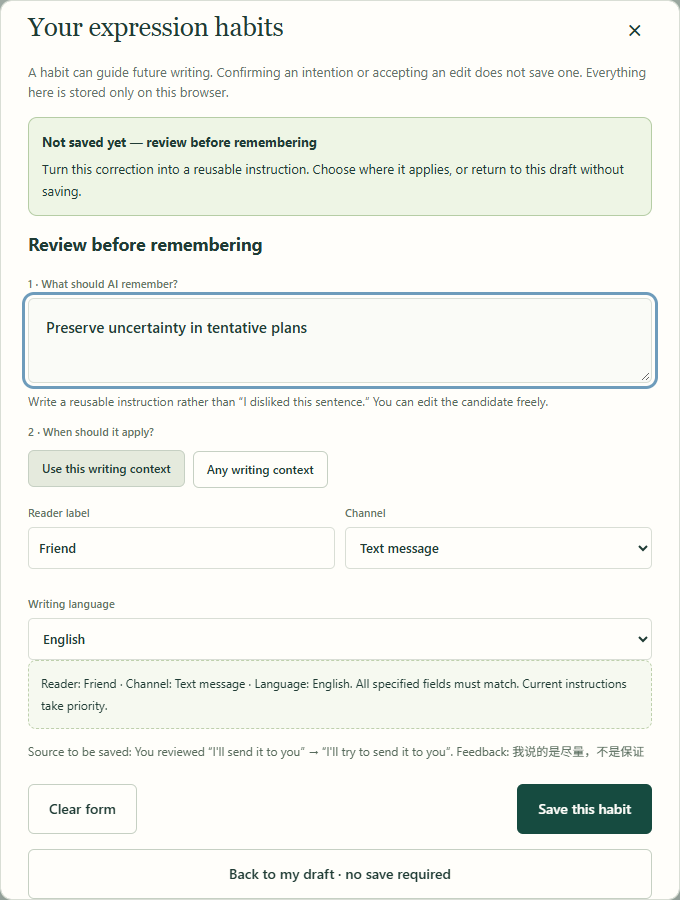
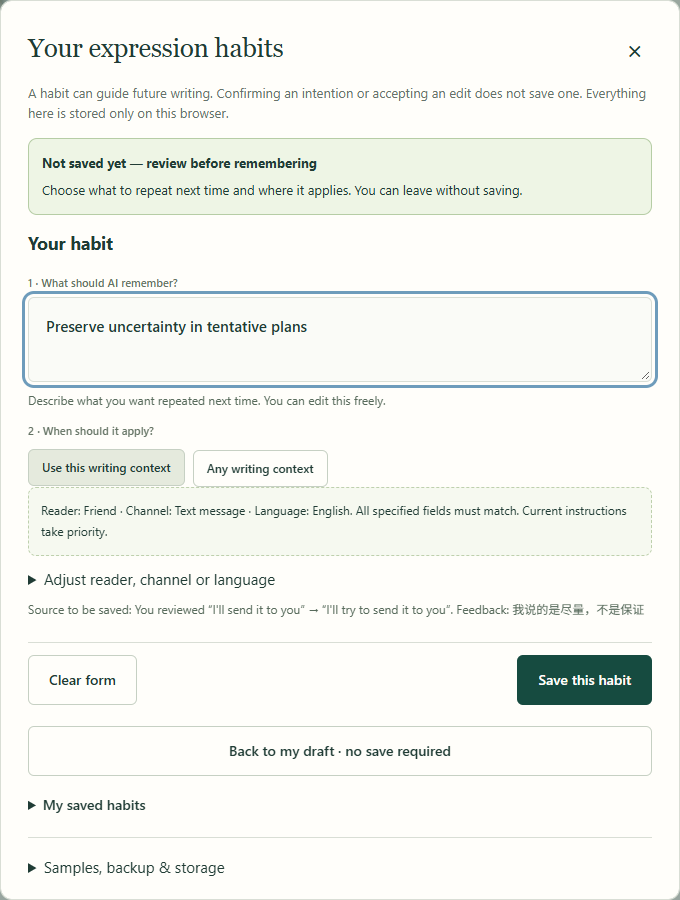
fix: smooth first-use writing and phone flows

diff --git a/writing-ui.js b/writing-ui.js
@@ -6,7 +6,7 @@ import { initMemories } from './memory-ui.js';
 import { initIntentPanel } from './intent-ui.js';
 import { addEvent, makeSnapshot, snapshotCurrent, checkReviewed } from './workflow-state.js';
 import { initWritingVoice } from './writing-voice.js';
-import { renderOptions, renderEvents } from './writing-panels.js';
+import { renderOptions, renderEvents, renderDecision } from './writing-panels.js';
 import { renderSelection } from './selection-ui.js';
 import { initFlowGuide } from './flow-ui.js';
 import { confirmedIntentions } from './intent-state.js';
@@ -30,7 +30,7 @@ export function initWriting({ getConnection, notify }) {
   for (const id of ['writing-target', 'back-language']) $(id).replaceChildren(...[...$('target').options].map(x => x.cloneNode(true)));
   $('back-language').value = 'Chinese (Simplified)';
   const voice = initWritingVoice(() => invalidate());
-  const memory = initMemories({ context, changed: () => invalidate(), event: log, notify, enabled: () => voice.get().enabled });
+  const memory = initMemories({ context, changed: () => invalidate(), event: log, notify, enabled: () => voice.get().enabled, returnToDraft: continueWriting });
   const intents = initIntentPanel({ changed: () => invalidate(), event: log, fail, remember: rememberCandidate, getRevision: () => session.revision });
   function inputData() {
     const habits = voice.get().enabled ? memory.matched() : [];
@@ -41,21 +41,29 @@ export function initWriting({ getConnection, notify }) {
       voiceSamples: voice.get().enabled && voice.get().sample ? [voice.get().sample] : [] };
   }
   function signature() {
-    return JSON.stringify({ context: contextIds.map(id => $(id).type === 'checkbox' ? $(id).checked : $(id).value), intentions: confirmedIntentions(intents.get()), habits: memory.matched(), voice: voice.get() });
+    return JSON.stringify({ mode: demo ? 'demo' : 'live', context: contextIds.map(id => $(id).type === 'checkbox' ? $(id).checked : $(id).value), intentions: confirmedIntentions(intents.get()), habits: memory.matched(), voice: voice.get() });
   }
   function snapshotInput() { return { text: session.text, revision: session.revision, backLanguage: $('back-language').value, signature: signature() }; }
   function refreshSnapshot() {
+    const limitedDemo = demo && sample?.id !== 'promise';
+    $('check-demo-hint').hidden = !demo;
+    $('check-demo-hint').textContent = limitedDemo ? 'This authored example shows a language view. Choose the “尽量” example for a guided repair, or use My own draft with your API key for other feedback.' : 'Authored example: try “Too much commitment” or explain that “尽量” is not a guarantee. Other feedback needs live mode.';
+    document.querySelectorAll('[data-mismatch]').forEach(node => { node.disabled = demo && (limitedDemo || !node.dataset.mismatch.includes('commitment')); });
+    $('check-output').hidden = !snapshot;
+    $('copy-checked-draft').hidden = !checkReviewed(snapshot, snapshotInput(), reviewedId);
     $('check-current-draft').textContent = session.text || 'Your current draft will appear here.';
-    if (!snapshot) { $('snapshot-status').textContent = 'First, create a view in a familiar language. Your draft will stay unchanged.'; $('snapshot-status').classList.remove('stale'); $('repair-writing').disabled = true; $('mark-check-reviewed').disabled = true; $('check-reviewed-status').textContent = ''; $('repair-help').textContent = 'Create a language check, then describe any mismatch. Nothing changes until you accept a fix.'; refreshFlow(); return; }
+    if (!snapshot) { $('back-translate').textContent = 'Create language check'; $('snapshot-status').textContent = 'First, create a view in a familiar language. Your draft will stay unchanged.'; $('snapshot-status').classList.remove('stale'); $('repair-writing').disabled = true; $('mark-check-reviewed').disabled = true; $('check-reviewed-status').textContent = ''; $('repair-help').textContent = 'Create a language check, then describe any mismatch. Nothing changes until you accept a fix.'; refreshFlow(); return; }
     const fresh = snapshotCurrent(snapshot, snapshotInput());
-    $('snapshot-status').textContent = fresh ? `Current check · revision ${snapshot.revision} · ${snapshot.language}` : `Earlier check · revision ${snapshot.revision}. Draft or context changed — check again before repairing.`;
-    $('snapshot-status').classList.toggle('stale', !fresh); $('repair-writing').disabled = !fresh || Boolean(controller) || !$('correction-note').value.trim();
+    $('back-translate').textContent = fresh ? 'Refresh language check' : 'Check updated draft';
+    $('snapshot-status').textContent = fresh ? `Current check · revision ${snapshot.revision} · ${snapshot.language} · ${snapshot.source || 'Language view'}` : `Earlier check · revision ${snapshot.revision}. Draft, context or mode changed — check again before repairing.`;
+    $('snapshot-status').classList.toggle('stale', !fresh); $('repair-writing').disabled = !fresh || Boolean(controller) || !$('correction-note').value.trim() || limitedDemo;
     $('mark-check-reviewed').disabled = !fresh || Boolean(controller);
     $('check-reviewed-status').textContent = checkReviewed(snapshot, snapshotInput(), reviewedId) ? 'Reviewed by you for this version. You can copy or keep editing.' : 'Not yet reviewed by you for the current wording and context.';
     $('repair-help').textContent = fresh ? 'Describe the mismatch to preview a local fix. You accept each edit; nothing is changed automatically.' : 'Create an updated check before requesting a repair. Your earlier notes are kept.';
     refreshFlow();
   }
   function refreshFlow() {
+    $('connection-hint').hidden = demo || Boolean(getConnection().apiKey);
     guide?.refresh({ text: session.text, goal: $('writing-intent').value, avoid: $('writing-avoid').value, intentions: intents.get(),
       habits: voice.get().enabled ? memory.matched() : [], hasSample: Boolean(voice.get().enabled && voice.get().sample),
       snapshot, fresh: snapshotCurrent(snapshot, snapshotInput()), reviewed: checkReviewed(snapshot, snapshotInput(), reviewedId),
@@ -66,6 +74,7 @@ export function initWriting({ getConnection, notify }) {
     cancel(); suggestions = []; preview = null; candidate = null; $('memory-nudge').hidden = true;
     $('reflection-result').replaceChildren(); $('writing-status').textContent = '';
     $('selection-feedback').textContent = '';
+    $('decision-result').hidden = true; $('decision-result').replaceChildren();
     $('habit-conflicts').replaceChildren();
     $('suggestion-summary').textContent = 'Ready when you are. Ask for fresh suggestions after a change.';
     fail(); renderSuggestions(); memory.refresh(); refreshSnapshot(); updateContext(); $('use-writing-habits').checked = voice.get().enabled; refreshFlow();
@@ -90,8 +99,10 @@ export function initWriting({ getConnection, notify }) {
     memory.refresh(); refreshSnapshot(); updateContext();
   }
   function rememberCandidate(data) { memory.open({ ...data, scope: data.scope || context() }); }
+  function openCheck() { showPanel('check'); $('back-translate').focus(); }
+  function continueWriting() { $('suggestions-panel').classList.remove('is-open'); $('writing-draft').focus(); }
   function renderSuggestions() {
-    renderOptions({ suggestions, intentions: intents.get(), apply, reject });
+    renderOptions({ suggestions, intentions: intents.get(), apply, reject, hasDraft: Boolean(session.text.trim()), check: openCheck });
   }
   function apply(item, replacement, reason) {
     try {
@@ -106,13 +117,17 @@ export function initWriting({ getConnection, notify }) {
         $('memory-nudge-text').textContent = content; $('memory-nudge').hidden = false;
       }
       refreshFlow();
-      $('writing-status').textContent = 'Only that passage changed. You can undo it or check the new wording.'; $('analyze-writing').focus();
+      $('writing-status').textContent = 'Only that passage changed. You can undo it or check the new wording.';
+      const habitToReview = candidate;
+      renderDecision({ title: 'Applied to your draft', detail: `Your wording is now: “${replacement}”. Check the updated meaning, or keep writing.`,
+        remember: habitToReview ? () => rememberCandidate(habitToReview) : null, check: openCheck, write: continueWriting }).focus();
     } catch (error) { fail(error.message); }
   }
   function reject(item, reason) {
     cancel(); session = recordFeedback(session, 'rejected', reason, item.original); suggestions = suggestions.filter(x => x !== item);
     log({ kind: 'rejected', before: item.original, proposed: item.replacement, note: reason }); updateSession(); renderSuggestions();
-    $('writing-status').textContent = 'Kept your wording. No lasting habit was inferred.'; $('analyze-writing').focus();
+    $('writing-status').textContent = 'Kept your wording. No lasting habit was inferred.';
+    renderDecision({ title: 'Kept your original wording', detail: 'Your draft did not change. No habit was saved from this choice.', check: openCheck, write: continueWriting }).focus();
   }
   async function run(action) {
     fail();
@@ -148,8 +163,8 @@ export function initWriting({ getConnection, notify }) {
         startingDraft(session, output.draft); preview = { text: output.draft, revision: session.revision, epoch, habits };
         $('starting-preview-text').textContent = output.draft; $('starting-preview').showModal();
       } else if (action === 'back') {
-        snapshot = makeSnapshot(binding, output.text); reviewedId = null; flagged = ''; $('flagged-text').textContent = '';
-        $('check-text').value = output.text; $('correction-note').value = ''; showPanel('check');
+        snapshot = { ...makeSnapshot(binding, output.text), source: demo ? 'Authored example' : 'Live AI' }; reviewedId = null; flagged = ''; $('flagged-text').textContent = '';
+        $('check-text').value = output.text; $('correction-note').value = ''; $('check-draft-comparison').open = true; showPanel('check');
         log({ kind: 'cross-language-check', note: `${snapshot.language} · snapshot ${snapshot.id}` });
       } else {
         $('reflection-result').replaceChildren(); showPanel('check');
@@ -189,13 +204,23 @@ export function initWriting({ getConnection, notify }) {
   $('use-writing-habits').checked = voice.get().enabled;
   $('use-writing-habits').addEventListener('change', () => voice.setEnabled($('use-writing-habits').checked));
   $('remember-correction').addEventListener('click', () => { if (candidate) rememberCandidate(candidate); });
-  $('dismiss-memory').addEventListener('click', () => { candidate = null; $('memory-nudge').hidden = true; refreshFlow(); });
-  $('open-check').addEventListener('click', () => { showPanel('check'); $('back-translate').focus(); });
+  $('dismiss-memory').addEventListener('click', () => {
+    candidate = null; $('memory-nudge').hidden = true; document.querySelector('#decision-result [data-remember-candidate]')?.remove(); refreshFlow();
+    ((!$('panel-suggestions').hidden && document.querySelector('#decision-result button')) || $('writing-draft')).focus();
+  });
+  $('open-check').addEventListener('click', openCheck);
+  $('connect-writing').addEventListener('click', () => $('open-settings').click());
+  $('first-example').addEventListener('click', () => $('writing-demo-mode').click());
+  $('back-from-intentions').addEventListener('click', () => { $('intent-panel').open = false; continueWriting(); $('writing-status').textContent = 'Your confirmed instructions will guide your next review. Your draft is unchanged.'; });
   $('mark-check-reviewed').addEventListener('click', () => {
     if (!snapshotCurrent(snapshot, snapshotInput())) return;
-    reviewedId = snapshot.id; log({ kind: 'meaning-reviewed', note: 'Writer marked the current check as matching their meaning; not a model accuracy claim.' }); refreshSnapshot();
+    const previousNote = $('correction-note').value.trim();
+    cancel(); reviewedId = snapshot.id; flagged = ''; $('check-text').setSelectionRange($('check-text').selectionEnd, $('check-text').selectionEnd); $('flagged-text').textContent = ''; $('correction-note').value = '';
+    suggestions = suggestions.filter(item => !item.correction); renderSuggestions();
+    log({ kind: 'meaning-reviewed', note: `Writer marked the current check as matching their meaning; not a model accuracy claim.${previousNote ? ` Earlier mismatch note, now resolved by the writer: ${previousNote}` : ''}` }); refreshSnapshot();
   });
-  $('return-to-writing').addEventListener('click', () => { $('suggestions-panel').classList.remove('is-open'); $('writing-draft').focus(); });
+  $('return-to-writing').addEventListener('click', continueWriting);
+  $('copy-checked-draft').addEventListener('click', () => $('copy-draft').click());
   document.querySelectorAll('[data-mismatch]').forEach(node => node.addEventListener('click', () => {
     const previous = $('correction-note').value.trim();
     if (previous) { $('correction-note').focus(); return; }

diff --git a/index.html b/index.html
@@ -25,6 +25,7 @@
     </section>
     <section id="writing-workspace" class="writing-workspace" aria-labelledby="writing-title">
       <div class="writing-top"><div><h2 id="writing-title">What’s on your mind?</h2><p class="help">A message, a story, a thought. Mixed languages welcome.</p></div><div class="writing-modes" role="group" aria-label="Writing mode"><button id="writing-live-mode" class="active" aria-pressed="true">My own draft</button><button id="writing-demo-mode" aria-pressed="false">Try an example</button></div></div>
+      <div id="connection-hint" class="connection-hint"><p id="connection-hint-text">Write freely. AI suggestions need your own API key; the guided example works without one.</p><div><button id="first-example" class="text-button">Try the free example</button><button id="connect-writing" class="text-button">Connect my AI</button></div></div>
       <div id="flow-guide" class="flow-guide" aria-label="Writing journey">
         <nav class="flow-navigation" aria-label="Choose a writing step"><button id="flow-intention"><span>1</span> What I mean</button><button id="flow-writing"><span>2</span> Shape my words</button><button id="flow-check"><span>3</span> Check the meaning</button><button id="flow-memory"><span>4</span> Remember · optional</button></nav>
         <div class="flow-next"><div><strong id="flow-next-title">Start with what you want to say.</strong><p id="flow-next-detail">You can use any language. Every step is optional and you can return whenever you like.</p></div><button id="flow-next-action" class="button small outline">Start writing</button></div>
@@ -39,7 +40,7 @@
         <label>Where will you use it?<select id="writing-channel"><option>Text message</option><option>Email</option><option>Social media</option><option>Personal writing</option><option>Creative writing</option><option>Community forum</option></select></label>
         <label>How much help?<select id="writing-scope"><option value="light">Light edits</option><option value="grammar">Grammar only</option><option value="selection">Selected passage only</option><option value="explore">Explore alternatives</option></select></label>
       </div></details>
-      <details id="intent-panel" class="intent-panel"><summary>What matters in this draft <span id="intent-count">Add your own or let AI suggest</span></summary><p class="help">These instructions apply to this draft only. AI guesses stay out of writing requests until you confirm them. Saving a future habit is a separate choice.</p><div id="intent-list"></div><form id="intent-form" class="inline-form"><label class="grow">Add an intention<input id="new-intent" maxlength="400" placeholder="e.g. Keep the uncertainty" required></label><button class="button small outline" type="submit">Add</button></form><button id="extract-intents" class="text-button">Help me clarify my intentions</button></details>
+      <details id="intent-panel" class="intent-panel"><summary>What matters in this draft <span id="intent-count">Add your own or let AI suggest</span></summary><p class="help">These instructions apply to this draft only. AI guesses stay out of writing requests until you confirm them. Saving a future habit is a separate choice.</p><div id="intent-list"></div><form id="intent-form" class="inline-form"><label class="grow">Add an intention<input id="new-intent" maxlength="400" placeholder="e.g. Keep the uncertainty" required></label><button class="button small outline" type="submit">Add</button></form><button id="extract-intents" class="text-button">Help me clarify my intentions</button><button id="back-from-intentions" class="button small outline">Back to writing</button></details>
       <div class="writing-main"><div class="draft-column">
         <div class="writing-section-heading"><h3>Your working draft</h3><span id="writing-badge" class="badge">YOUR DRAFT</span></div>
         <div class="draft-editor-area"><section id="selection-workbench" class="selection-workbench" popover="manual" aria-labelledby="selection-title">
@@ -67,17 +68,17 @@
         <p class="writing-privacy">Drafts and decisions stay in this tab. Habits are saved only by your choice. Live requests send relevant text and context to your selected AI provider.</p>
       </div><aside class="suggestions-column" id="suggestions-panel" aria-label="Writing companion" aria-busy="false"><button id="close-companion" class="text-button mobile-only">Back to my draft ↓</button><p id="companion-error" class="error mobile-only" role="alert" hidden></p>
         <div class="panel-switch" role="group" aria-label="Companion view"><button data-panel="suggestions" aria-pressed="true" class="active">Suggestions</button><button data-panel="check" aria-pressed="false">Check meaning</button><button data-panel="history" aria-pressed="false">Changes</button></div>
-        <section id="panel-suggestions"><div class="writing-section-heading"><h3>A few possibilities</h3><span id="suggestion-count" class="mono"></span></div><p id="suggestion-summary" class="suggestion-summary">Keep what fits. Leave what doesn’t.</p><div id="writing-suggestions"></div><div id="session-feedback" class="session-feedback"></div></section>
+        <section id="panel-suggestions"><div class="writing-section-heading"><h3>A few possibilities</h3><span id="suggestion-count" class="mono"></span></div><p id="suggestion-summary" class="suggestion-summary">Keep what fits. Leave what doesn’t.</p><div id="decision-result" class="decision-result" role="status" aria-live="polite" hidden></div><div id="writing-suggestions"></div><div id="session-feedback" class="session-feedback"></div></section>
         <section id="panel-check" hidden>
           <h3>Does this still mean what you mean?</h3><p class="help">Read the other-language view, then tell us whether anything changed. This is your judgment, not an AI accuracy score.</p>
           <ol class="check-steps"><li><strong>1 · Read</strong><span>See this version in a familiar language.</span></li><li><strong>2 · Decide</strong><span>Mark a mismatch or say it fits.</span></li><li><strong>3 · Refine</strong><span>Preview a small fix, then check again.</span></li></ol>
           <div class="back-translation-row"><label>Check in<select id="back-language"></select></label><button id="back-translate" class="button small primary">Create language check</button></div>
           <p id="snapshot-status" role="status" class="help"></p>
-          <details id="check-draft-comparison"><summary>See the current writing alongside this check</summary><p id="check-current-draft" class="comparison-draft" dir="auto"></p></details>
+          <div id="check-output" hidden><p id="check-demo-hint" class="help" hidden></p><details id="check-draft-comparison"><summary>See the current writing alongside this check</summary><p id="check-current-draft" class="comparison-draft" dir="auto"></p></details>
           <label for="check-text">Other-language view · select a part that feels off</label><textarea id="check-text" rows="5" readonly dir="auto" placeholder="Choose a language, then create a check. Your draft stays unchanged."></textarea><p id="flagged-text" class="help"></p>
-          <div class="check-decisions"><button id="mark-check-reviewed" class="button small outline" disabled>This matches what I mean</button><span id="check-reviewed-status" role="status" class="help"></span></div>
+          <div class="check-decisions"><button id="mark-check-reviewed" class="button small outline" disabled>This matches what I mean</button><span id="check-reviewed-status" role="status" class="help"></span><button id="copy-checked-draft" class="button small primary" hidden>Copy my draft</button></div>
           <fieldset class="mismatch-options"><legend>Something feels different?</legend><p class="help">Start with a prompt below, or describe it in your own words.</p><div id="mismatch-prompts"><button type="button" data-mismatch="The commitment is stronger than I intended.">Too much commitment</button><button type="button" data-mismatch="The tone does not match how I want to sound.">Tone feels different</button><button type="button" data-mismatch="A cultural expression or image was lost.">Lost an expression</button><button type="button" data-mismatch="An important detail is missing or changed.">A detail changed</button></div></fieldset>
-          <label for="correction-note">What should this mean instead? · any language</label><textarea id="correction-note" rows="2" maxlength="600" placeholder="我说的是尽量，不是保证。Or: I want warmth without a stronger promise."></textarea><p id="repair-help" class="help">A fix is only a preview. Your wording changes after you accept it.</p><button id="repair-writing" class="button primary" aria-describedby="repair-help">Preview a focused fix</button><button id="return-to-writing" class="text-button">Back to editing my draft</button>
+          <label for="correction-note">What should this mean instead? · any language</label><textarea id="correction-note" rows="2" maxlength="600" placeholder="我说的是尽量，不是保证。Or: I want warmth without a stronger promise."></textarea><p id="repair-help" class="help">A fix is only a preview. Your wording changes after you accept it.</p><button id="repair-writing" class="button primary" aria-describedby="repair-help">Preview a focused fix</button></div><button id="return-to-writing" class="text-button">Back to editing my draft</button>
           <details class="reader-check"><summary>Optional: compare intentions & possible reader impressions</summary><button id="check-meaning" class="text-button">Ask for another perspective</button><div id="reflection-result" aria-live="polite"></div></details>
         </section>
 

diff --git a/memory-ui.js b/memory-ui.js
@@ -1,7 +1,7 @@
 import { $, make, button, download } from './ui-helpers.js';
 import { makeMemory, loadMemories, saveMemories, matchMemories, importMemories, exportMemories } from './memory-store.js';
 
-export function initMemories({ context, changed, event, notify, enabled = () => true }) {
+export function initMemories({ context, changed, event, notify, enabled = () => true, returnToDraft = () => $('writing-draft').focus() }) {
   let storage, items = [], exclusions = [], editing = null, source = null;
   let loadIssue = '';
   try { storage = localStorage; items = loadMemories(storage); }
@@ -12,11 +12,11 @@ export function initMemories({ context, changed, event, notify, enabled = () => 
   const dialog = make('dialog'); dialog.id = 'habits-dialog'; dialog.setAttribute('aria-labelledby', 'habits-title');
   dialog.innerHTML = `<div class="dialog-heading"><h2 id="habits-title">Your expression habits</h2><button type="button" id="close-habits" class="close-button" aria-label="Close habits">×</button></div>
     <p class="dialog-copy">A habit can guide future writing. Confirming an intention or accepting an edit does not save one. Everything here is stored only on this browser.</p>
-    <p id="habits-status" class="help" role="status"></p><div id="habit-save-result" class="habit-save-result" role="status"></div><div id="habit-review-banner" class="habit-review-banner" hidden><strong>Not saved yet — review before remembering</strong><p>Turn this correction into a reusable instruction. Choose where it applies, or return to this draft without saving.</p></div>
+    <p id="habits-status" class="help" role="status"></p><div id="habit-save-result" class="habit-save-result" role="status"></div><div id="habit-review-banner" class="habit-review-banner" hidden><strong>Not saved yet — review before remembering</strong><p>Choose what to repeat next time and where it applies. You can leave without saving.</p></div>
     <form id="habit-form"><h3 id="habit-form-title">Add a habit</h3><label>1 · What should AI remember?<textarea id="habit-content" required maxlength="400" rows="2" placeholder="e.g. When I describe a tentative plan, preserve uncertainty."></textarea></label>
-    <p class="help">Write a reusable instruction rather than “I disliked this sentence.” You can edit the candidate freely.</p><p class="field-label">2 · When should it apply?</p><div class="habit-scope-presets"><button id="habit-use-context" type="button" class="button small outline">Use this writing context</button><button id="habit-use-any" type="button" class="button small outline">Any writing context</button></div>
-    <div class="habit-scope"><label>Reader label<input id="habit-recipient" maxlength="150" placeholder="Any reader"></label><label>Channel<select id="habit-channel"><option value="">Any channel</option><option>Text message</option><option>Email</option><option>Social media</option><option>Personal writing</option><option>Creative writing</option><option>Community forum</option></select></label><label>Writing language<select id="habit-target"><option value="">Any language</option></select></label></div>
-    <p id="habit-scope-preview" class="habit-scope-preview" aria-live="polite"></p><p id="habit-source" class="help"></p><div class="dialog-actions"><button id="cancel-habit-edit" type="button" class="button outline">Clear form</button><button class="button primary" type="submit">Save this habit</button></div></form>
+    <p class="help">Describe what you want repeated next time. You can edit this freely.</p><p class="field-label">2 · When should it apply?</p><div class="habit-scope-presets"><button id="habit-use-context" type="button" class="button small outline">Use this writing context</button><button id="habit-use-any" type="button" class="button small outline">Any writing context</button></div>
+    <p id="habit-scope-preview" class="habit-scope-preview" aria-live="polite"></p><details id="habit-scope-editor"><summary>Adjust reader, channel or language</summary><div class="habit-scope"><label>Reader label<input id="habit-recipient" maxlength="150" placeholder="Any reader"></label><label>Channel<select id="habit-channel"><option value="">Any channel</option><option>Text message</option><option>Email</option><option>Social media</option><option>Personal writing</option><option>Creative writing</option><option>Community forum</option></select></label><label>Writing language<select id="habit-target"><option value="">Any language</option></select></label></div></details>
+    <p id="habit-source" class="help"></p><div class="dialog-actions"><button id="cancel-habit-edit" type="button" class="button outline">Clear form</button><button class="button primary" type="submit">Save this habit</button></div></form>
     <button id="finish-habit-review" type="button" class="button outline">Back to my draft · no save required</button><details id="saved-habits-section" open><summary>My saved habits</summary><div id="habits-list"></div></details>
     <details class="habit-tools"><summary>Samples, backup & storage</summary><button id="open-voice-example" class="text-button">Manage my explicitly saved writing sample</button><button id="export-habits" class="text-button">Export habits</button><label>Import habits (replaces this list)<input id="import-habits" type="file" accept="application/json,.json"></label><button id="clear-habits" class="text-button">Clear all habits</button></details>`;
   document.body.append(dialog);
@@ -42,7 +42,8 @@ export function initMemories({ context, changed, event, notify, enabled = () => 
       field.value = value;
     }
     $('habit-source').textContent = source ? `Source to be saved: ${source.label}` : 'Source: a habit explicitly added by you.';
-    $('habit-form-title').textContent = candidate ? 'Review before remembering' : 'Add a habit';
+    $('habit-form-title').textContent = candidate ? 'Your habit' : 'Add a habit';
+    $('habit-scope-editor').open = !candidate;
     $('habit-review-banner').hidden = !candidate;
     $('habit-save-result').textContent = '';
     previewScope();
@@ -58,6 +59,7 @@ export function initMemories({ context, changed, event, notify, enabled = () => 
       const actions = make('div', '', 'suggestion-actions');
       actions.append(button('Edit habit', () => {
         reset({ content: item.content, scope: item.scope, source: item.source }); editing = item.id;
+        $('habit-scope-editor').open = true;
         $('habit-form-title').textContent = 'Edit this habit'; $('habit-content').focus();
       }), button(item.enabled ? 'Pause' : 'Enable', () => {
         items = items.map(x => x.id === item.id ? { ...x, enabled: !x.enabled, updatedAt: new Date().toISOString() } : x);
@@ -96,7 +98,7 @@ export function initMemories({ context, changed, event, notify, enabled = () => 
     } catch (error) { $('habits-status').textContent = error.message; }
   });
   $('close-habits').addEventListener('click', () => dialog.close());
-  $('finish-habit-review').addEventListener('click', () => { dialog.close(); $('writing-draft').focus(); });
+  $('finish-habit-review').addEventListener('click', () => { dialog.close(); returnToDraft(); });
   for (const key of ['recipient', 'channel', 'target']) $(`habit-${key}`).addEventListener('input', previewScope);
   $('habit-use-context').addEventListener('click', () => { for (const [key, value] of Object.entries(context())) $(`habit-${key}`).value = value; previewScope(); });
   $('habit-use-any').addEventListener('click', () => { for (const key of ['recipient', 'channel', 'target']) $(`habit-${key}`).value = ''; previewScope(); });

diff --git a/intent-ui.js b/intent-ui.js
@@ -3,6 +3,7 @@ import { makeIntent, reviseIntent } from './intent-state.js';
 
 export function initIntentPanel({ changed, event, fail, remember, getRevision }) {
   let items = [];
+  function focusNext() { (document.querySelector('[data-confirm-intent]') || $('back-from-intentions')).focus(); }
   function render() {
     $('intent-count').textContent = items.length ? `${items.length} intentions · ${items.filter(x => x.confirmed).length} confirmed` : 'Add your own or let AI suggest';
     $('intent-list').replaceChildren();
@@ -13,16 +14,19 @@ export function initIntentPanel({ changed, event, fail, remember, getRevision })
       card.append(make('p', item.confirmed ? 'Used for this draft only. Saving a future habit is a separate choice.' : 'Check this against your meaning. Confirm to use it, edit it, or remove it.', 'help intent-scope-note'));
       if (item.evidence) card.append(make('p', `Source wording: “${item.evidence}”${Number.isInteger(item.evidenceRevision) ? ` · revision ${item.evidenceRevision}` : ''}`, 'help'));
       const actions = make('div', '', 'suggestion-actions');
-      if (!item.confirmed) actions.append(button('That’s what I mean', () => {
-        items = items.map(x => x.id === item.id ? { ...x, confirmed: true } : x); event({ kind: 'intent-confirmed', note: item.content }); render(); changed();
-      }));
+      if (!item.confirmed) {
+        const confirm = button('That’s what I mean', () => {
+          items = items.map(x => x.id === item.id ? { ...x, confirmed: true } : x); event({ kind: 'intent-confirmed', note: item.content }); render(); changed();
+          focusNext();
+        }); confirm.dataset.confirmIntent = item.id; actions.append(confirm);
+      }
       const edit = make('details', '', 'intent-edit'); edit.append(make('summary', 'Edit'));
       const field = make('input'); field.value = item.content; field.maxLength = 400; field.setAttribute('aria-label', 'Edit intention');
       edit.append(field, button('Use my wording', () => {
-        try { const updated = reviseIntent(item, field.value); items = items.map(x => x.id === item.id ? updated : x); event({ kind: 'intent-edited', note: updated.content }); render(); changed(); }
+        try { const updated = reviseIntent(item, field.value); items = items.map(x => x.id === item.id ? updated : x); event({ kind: 'intent-edited', note: updated.content }); render(); changed(); focusNext(); }
         catch (error) { fail(error.message); }
       })); actions.append(edit);
-      actions.append(button('Remove', () => { items = items.filter(x => x.id !== item.id); event({ kind: 'intent-removed', note: item.content }); render(); changed(); }));
+      actions.append(button('Remove', () => { items = items.filter(x => x.id !== item.id); event({ kind: 'intent-removed', note: item.content }); render(); changed(); focusNext(); }));
       if (item.confirmed) actions.append(button('Remember for later', () => remember({ content: item.content, source: { kind: 'intention', label: `Explicitly saved intention: ${item.content}`, eventId: '' } })));
       card.append(actions); $('intent-list').append(card);
     });
@@ -42,5 +46,6 @@ export function initIntentPanel({ changed, event, fail, remember, getRevision })
       const additions = proposed.filter(item => !items.some(x => x.content === item.content));
       items = [...items, ...additions.map(x => ({ ...x, evidenceRevision: getRevision() }))].slice(0, 12);
       render(); $('intent-panel').open = true; changed();
+      focusNext();
     } };
 }

diff --git a/writing.css b/writing.css
@@ -38,3 +38,7 @@ button,input,select,textarea,summary{touch-action:manipulation}button:focus-visi
 .selection-workbench[popover].has-selection .selection-action button{font-size:11px;line-height:1.4;min-height:44px;padding:3px 1px}
 .selection-workbench[popover] .selection-close{border:0;background:transparent;font-size:21px;line-height:1;min-height:28px;min-width:28px;padding:0;color:#41613a}
 @media(max-width:750px){.selection-workbench[popover].has-selection .selection-action button{font-size:10px;min-height:44px!important;padding:3px 1px!important}.selection-workbench[popover].has-selection #selection-guidance{font-size:10px}.selection-workbench[popover] .selection-close{min-height:28px!important}.selection-workbench[popover].has-selection #selected-passage{max-height:none}}
+/* Newcomer walkthrough: clarify entry, decisions and the next action. */
+.connection-hint{padding:12px 26px;border-top:1px solid var(--line);background:#fafbf6;font-size:12px;line-height:1.7}.connection-hint p{margin:0;color:#53634f}.connection-hint>div{display:flex;gap:18px;flex-wrap:wrap}.flow-guide.is-empty .goal-anchor,.flow-guide.is-empty #request-inputs{display:none}.decision-result{padding:15px;border:1px solid #b9cfa8;border-radius:9px;background:#eaf3e0;margin:14px 0}.decision-result strong{font-size:14px}.decision-result p{font-size:13px;line-height:1.7;overflow-wrap:anywhere;margin:6px 0}.decision-result .suggestion-actions{gap:7px}.decision-result .button{font-size:12px}#back-from-intentions{margin:10px 0 0 18px}#copy-checked-draft{margin-top:8px}#habit-form .dialog-actions{position:sticky;bottom:0;z-index:2;background:var(--white);padding:12px 0 6px;border-top:1px solid var(--line)}.selection-workbench[popover] .selection-close{min-width:44px;min-height:44px!important}.selection-workbench[popover].has-selection .selection-action button{font-size:12px;min-height:48px}
+@media(max-width:750px){.connection-hint{padding:12px 18px}.connection-hint .text-button{min-height:44px}.flow-guide.is-empty .flow-next{gap:7px}.decision-result{padding:12px}.decision-result .suggestion-actions{display:grid;grid-template-columns:1fr}.decision-result .button{width:100%;font-size:13px;min-height:44px}.selection-workbench[popover].has-selection .selection-action button{font-size:12px;min-height:48px!important}.selection-workbench[popover] .selection-close{min-height:44px!important}#check-draft-comparison .comparison-draft{max-height:100px;font-size:14px}#back-from-intentions{margin-left:0;display:block}#habit-form .dialog-actions .button{min-height:44px}}
+.toast{z-index:60}

diff --git a/writing-panels.js b/writing-panels.js
@@ -1,7 +1,11 @@
 import { $, make, button } from './ui-helpers.js';
-export function renderOptions({ suggestions, intentions, apply, reject }) {
+export function renderOptions({ suggestions, intentions, apply, reject, hasDraft = false, check }) {
   $('writing-suggestions').replaceChildren(); $('suggestion-count').textContent = `${suggestions.length} to consider`;
-  if (!suggestions.length) { $('writing-suggestions').append(make('p', 'Start with your words. We’ll look at one small change at a time.', 'empty-suggestions')); return; }
+  if (!suggestions.length) {
+    $('writing-suggestions').append(make('p', hasDraft ? 'No pending edits. You can keep your wording, ask for another review, or check the meaning.' : 'Start with your words. We’ll look at one small change at a time.', 'empty-suggestions'));
+    if (hasDraft && check) $('writing-suggestions').append(button('Check the current draft', check));
+    return;
+  }
   suggestions.forEach((item, index) => {
     const card = make('article', '', 'suggestion-card');
     card.append(make('h4', item.correction ? 'A focused meaning repair' : `A small possibility · ${index + 1}`), make('span', 'Current wording', 'field-label'), make('del', item.original, 'suggestion-before'));
@@ -17,6 +21,14 @@ export function renderOptions({ suggestions, intentions, apply, reject }) {
     actions.append(button('Use this expression', () => apply(item, field.value, feedback.value), 'button small primary'), button('Make it my own', () => { field.readOnly = false; field.focus(); }), button('Keep my wording', () => reject(item, feedback.value)));
     card.append(actions); $('writing-suggestions').append(card);
   });
+}
+export function renderDecision({ title, detail, remember, check, write }) {
+  const result = $('decision-result'); result.replaceChildren(make('strong', title), make('p', detail)); result.hidden = false;
+  const actions = make('div', '', 'suggestion-actions');
+  actions.append(button('Check this version', check, 'button small primary'));
+  if (remember) { const action = button('Review a habit · optional', remember); action.dataset.rememberCandidate = 'true'; actions.append(action); }
+  actions.append(button('Keep writing', write)); result.append(actions);
+  return actions.querySelector('button');
 }
 export function renderEvents(events) {
   $('revision-events').replaceChildren();

diff --git a/writing-demo.js b/writing-demo.js
@@ -79,7 +79,7 @@ export function demoReview(action, session, sample, language = 'English') {
     { content: chinese ? `避免：${sample.avoid}` : `Avoid: ${sample.avoid}`, evidence: sample.avoid, category: 'tone' },
   ], session) };
   if (action === 'repair' && sample.id !== 'promise') throw new Error('The authored repair journey is in the “尽量” example. Use live mode for other repairs.');
-  if (action === 'repair' && !/尽量|保证|承诺|try|uncertain|promise|guarantee/i.test(session.correction || '')) throw new Error('This authored repair demonstrates preserving uncertainty. Switch to live mode for other feedback.');
+  if (action === 'repair' && !/尽量|保证|承诺|try|uncertain|promise|guarantee|commitment/i.test(session.correction || '')) throw new Error('This authored repair demonstrates preserving uncertainty. Switch to live mode for other feedback.');
   if (action === 'reflect') return {
     meaning: chinese ? '这是演示说明，不是实时判断。请比较原稿与当前草稿，特别检查承诺、情绪和受保护表达。' : 'Authored demo guidance, not a live assessment: compare the original and current draft for promises, emotion, and protected expressions.',
     reader: chinese ? '读者的理解可能不同。可以询问对方，或邀请朋友反馈；不要把文化背景当成固定规则。' : 'Readers may interpret this differently. Ask your reader or invite a friend; cultural background does not determine an individual response.',

diff --git a/flow-ui.js b/flow-ui.js
@@ -9,6 +9,7 @@ export function initFlowGuide({ editGoal, reviewIntentions = editGoal, write, ch
   $('edit-draft-goal').addEventListener('click', editGoal);
   $('flow-next-action').addEventListener('click', () => next());
   return { refresh(state) {
+    $('flow-guide').classList.toggle('is-empty', !state.text.trim() && !state.goal && !state.intentions.length);
     const confirmed = state.intentions.filter(x => x.confirmed), pending = state.intentions.length - confirmed.length;
     $('goal-anchor-text').textContent = state.goal || confirmed[0]?.content || 'No goal added yet. You can write first.';
     $('request-input-summary').textContent = `Refinement receives your current and original drafts, explicit context, protected expressions, ${confirmed.length} confirmed intention(s), ${state.habits.length} matching habit(s)${state.hasSample ? ' and your enabled writing sample' : ''}.`;

diff --git a/tests/writing-demo.test.js b/tests/writing-demo.test.js
@@ -18,3 +18,8 @@ test('demo language constraints are explicit and examples preserve their protect
     assert.throws(() => demoReview('analyze', { ...state, target: 'English' }, sample, 'French'), /explanation|live/i);
   }
 });
+test('the visible commitment mismatch prompt works in the authored repair example', () => {
+  const sample = writingDemos.find(item => item.id === 'promise');
+  const output = demoReview('repair', { ...createSession(sample.text), target: 'English', scope: 'light', correction: 'The commitment is stronger than I intended.' }, sample);
+  assert.match(output.suggestions[0].replacement, /try to/);
+});

diff --git a/plan/newcomer-walkthrough.md b/plan/newcomer-walkthrough.md
@@ -1,0 +1,13 @@
+# Newcomer walkthrough and direct usability fixes
+
+Walk the complete app in fresh desktop and phone contexts. Inspect entry without API access, selection popup, intention confirmation, check → repair → review, and explicitly saving a scoped habit. This is a heuristic walkthrough with controlled demo/API fixtures, not a participant usability study.
+
+Focus: expose the free demo/live-key choice before a surprise settings dialog; make intention confirmation lead back to writing without losing keyboard focus; replace misleading post-edit empty states; keep repair feedback and next actions inside the visible mobile panel; make current-language comparison/rechecking legible; improve phone touch targets and habit save reachability. Preserve user control, no automatic durable memory, source-blind checks and version safety.
+
+Validate fixes using new-user regression coverage plus existing state/provider/browser tests, inspect desktop and phone screenshots, independent code review, then publish and verify the online app. Keep the unrelated untracked user PDF untouched.
+
+Observed baseline on the deployed app in fresh 1440/390 contexts: confirming an intention left BODY focused; accepting repair moved focus behind the phone sheet to analyze-writing, showed “Start with your words” despite a populated draft, and left the optional memory prompt behind the sheet. Captured screenshots and DOM state before editing.
+
+Implemented: clear free-demo/personal-key entry and a compact empty guide; focus restoration for confirming/editing/removing intentions plus a back action; truthful no-pending-edits state; in-panel decision and optional memory actions; staged language checks with current-draft comparison/recheck labels and resolved-note handling; explicit authored/live check source isolation; supported authored commitment feedback chip; visible scope summary with optional editing; reachable mobile save/return and larger popup targets; copy toast above the sheet. Independent review also caught a dismissed-candidate callback, which is now removed on dismissal and captures stable data.
+
+Verification: 46 unit tests and syntax checks pass. Expanded browser suite includes complete fresh journeys at 1440/390/320 with touch emulation on phone sizes, selection/protection/undo, intention edit/remove focus, actual mismatch chip, repair outcome, dismissed-candidate regression, scoped saving, revealed draft after dialog, recheck/copy feedback, persistence and demo→live snapshot invalidation. Desktop/mobile repair and habit screenshots inspected; not physical-device testing. No paid model calls; all live test requests use controlled fixtures. Independent reviewer approved after focus/dismissal fixes.

diff --git a/README.md b/README.md
@@ -22,6 +22,14 @@ Language checks guide the writer through **read → decide → refine**. The cur
 
 On phones the companion opens as a dismissible bottom panel, preserving the draft. Context, intention details, suggestion explanations and additional reader perspectives use progressive disclosure.
 
+## First visit and next steps
+
+The entry hint distinguishes the free authored example from personal live use before requesting an API key. Intention confirmation, editing and removal retain keyboard focus; **Back to writing** returns directly to the draft. After accepting or keeping wording, the visible companion panel shows the outcome and offers **Check this version**, an optional habit review when relevant, and **Keep writing**. This also keeps habit saving reachable inside the phone panel.
+
+The checking form reveals results only after a check exists, expands the current-draft comparison, and labels stale checks with an update action. Marking a version as matching resolves the active mismatch note (retained in the session record) and exposes a copy action. Authored checks retain their source label and become stale when switching to live mode. Curated examples disclose which repair paths they support instead of offering nonfunctional feedback buttons.
+
+Habit review shows the actual matching scope before optional detailed fields. Save controls remain reachable while scrolling; returning from the dialog reveals the draft rather than focusing it behind the phone sheet. Popup touch targets and copy feedback visibility were also checked. These changes were verified through fresh-context desktop and touch-mobile browser walkthroughs, not a participant usability study or physical-device keyboard evaluation.
+
 ## Words, instructions and protected expressions
 
 Select a passage to **keep these words**, **find an expression**, or mark **this is a note to AI**. Moving a note out of the final draft requires confirmation. Undo restores moved notes and their prior task instructions unless those instructions were subsequently edited.
